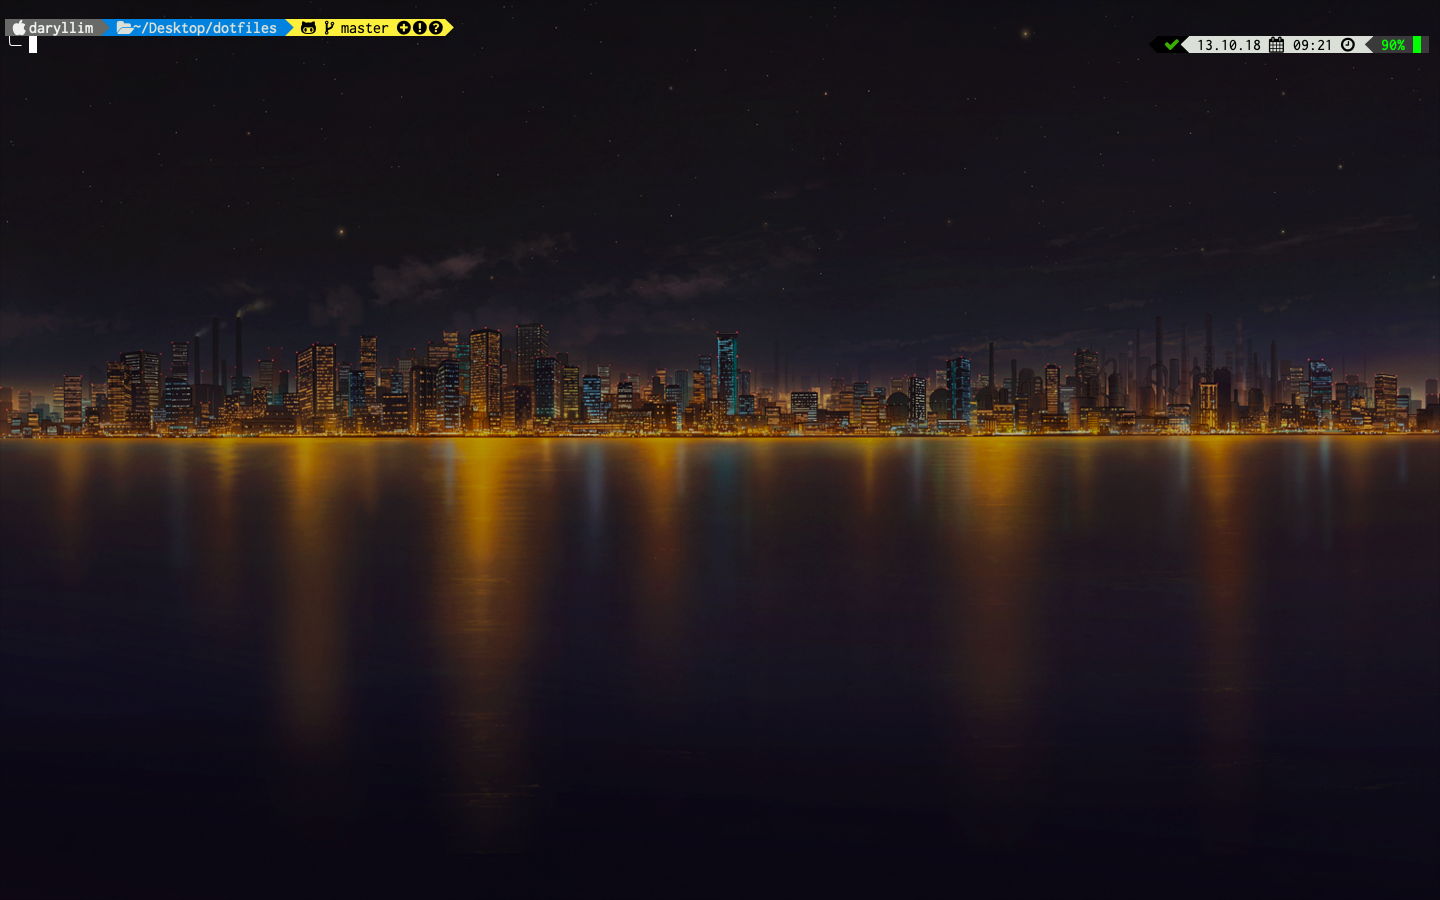
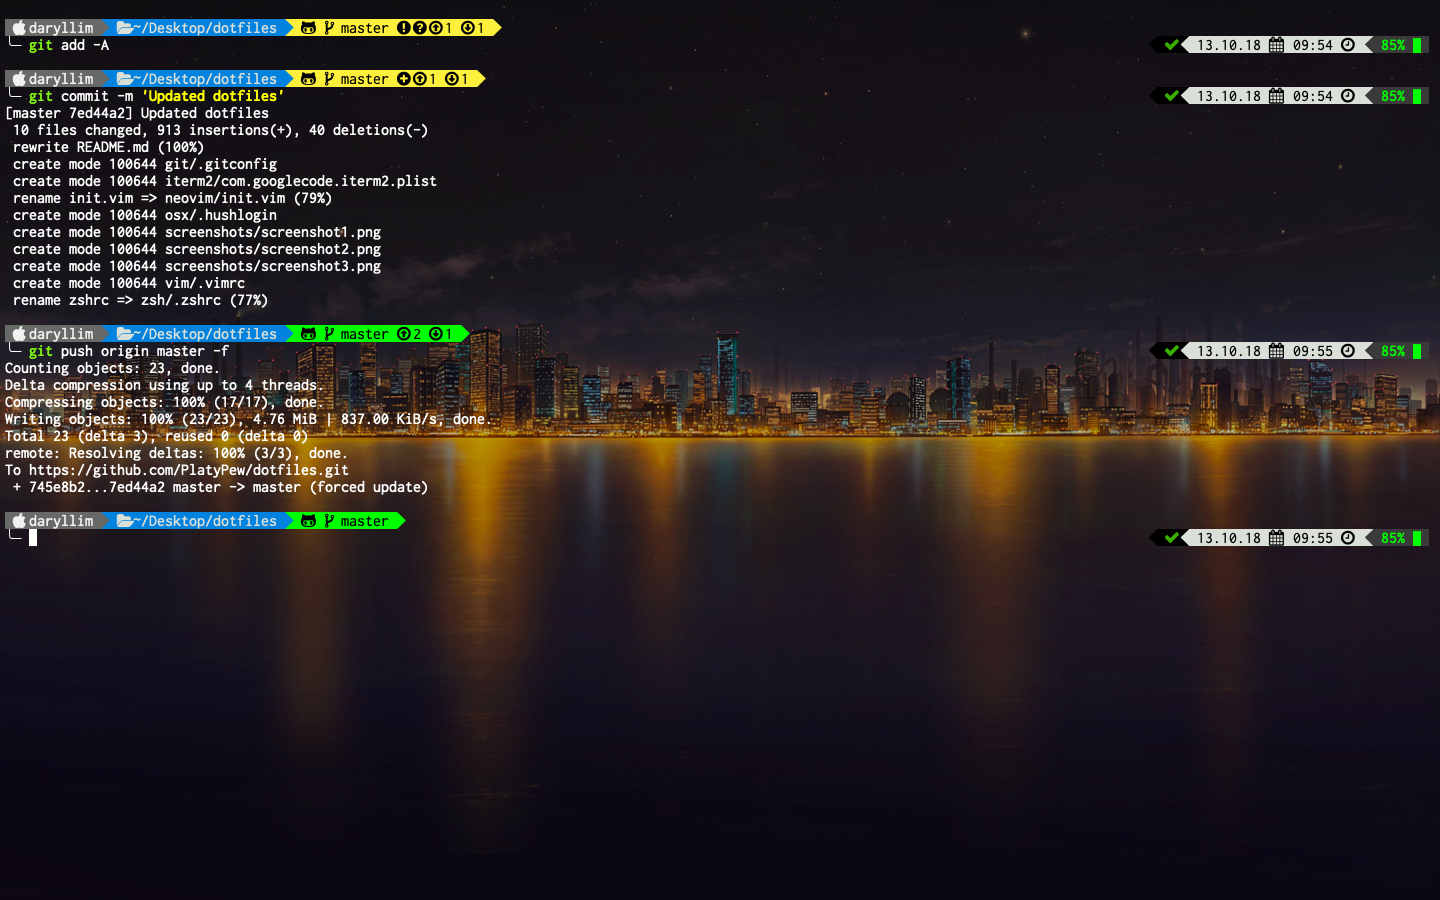
Added screenshots

diff --git a/README.md b/README.md
@@ -1,5 +1,5 @@
 # Dotfiles
-Basic terminal configurations for OSX.
+Basic terminal configurations for OSX. [Screenshots](#Screenshots)
 
 ## Iterm 2
 Install profile: `Preferences` -> `General` -> `Load preferences from a custom folder or URL` -> `Browse`
@@ -32,7 +32,9 @@ Install [powerlevel9k](https://github.com/bhilburn/powerlevel9k)
 
 Copy `.zshrc` into `~`
 
-## Screenshots
+# Screenshots
+
+## ZSH
 
 ### Neofetch
 ![neofetch](screenshots/screenshot1.png)
@@ -40,4 +42,22 @@ Copy `.zshrc` into `~`
 ### VCS (Git)
 ![vcs](screenshots/screenshot2.png)
 
-![vcs](screenshots/screenshot3.png)
+### Virtual Environment (virtualenv)
+![virtualenv](screenshots/screenshot3.png)
+
+## Neovim
+
+### Normal
+![neovim](screenshots/screenshot4.png)
+
+### NERDTree
+![nerdtree](screenshots/screenshot5.png)
+
+### Transparent Mode
+![transparent](screenshots/screenshot6.png)
+
+### Goyo
+![goyo](screenshots/screenshot7.png)
+
+### Rainbow and Limelight
+![rainbow_limelight](screenshots/screenshot8.png)
